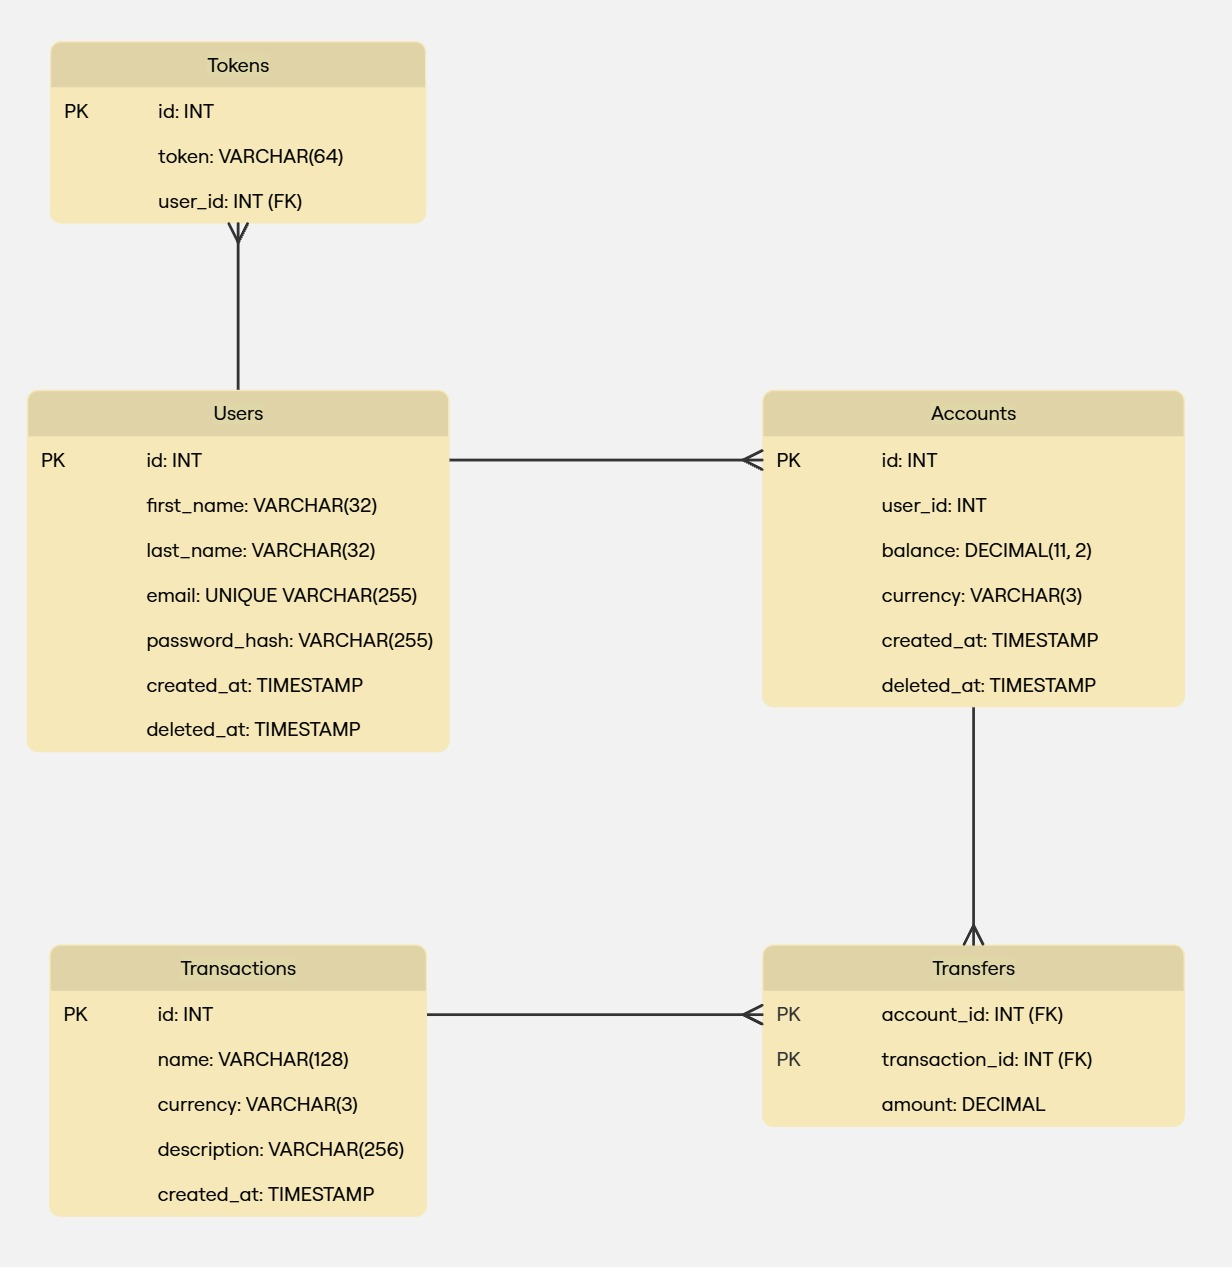
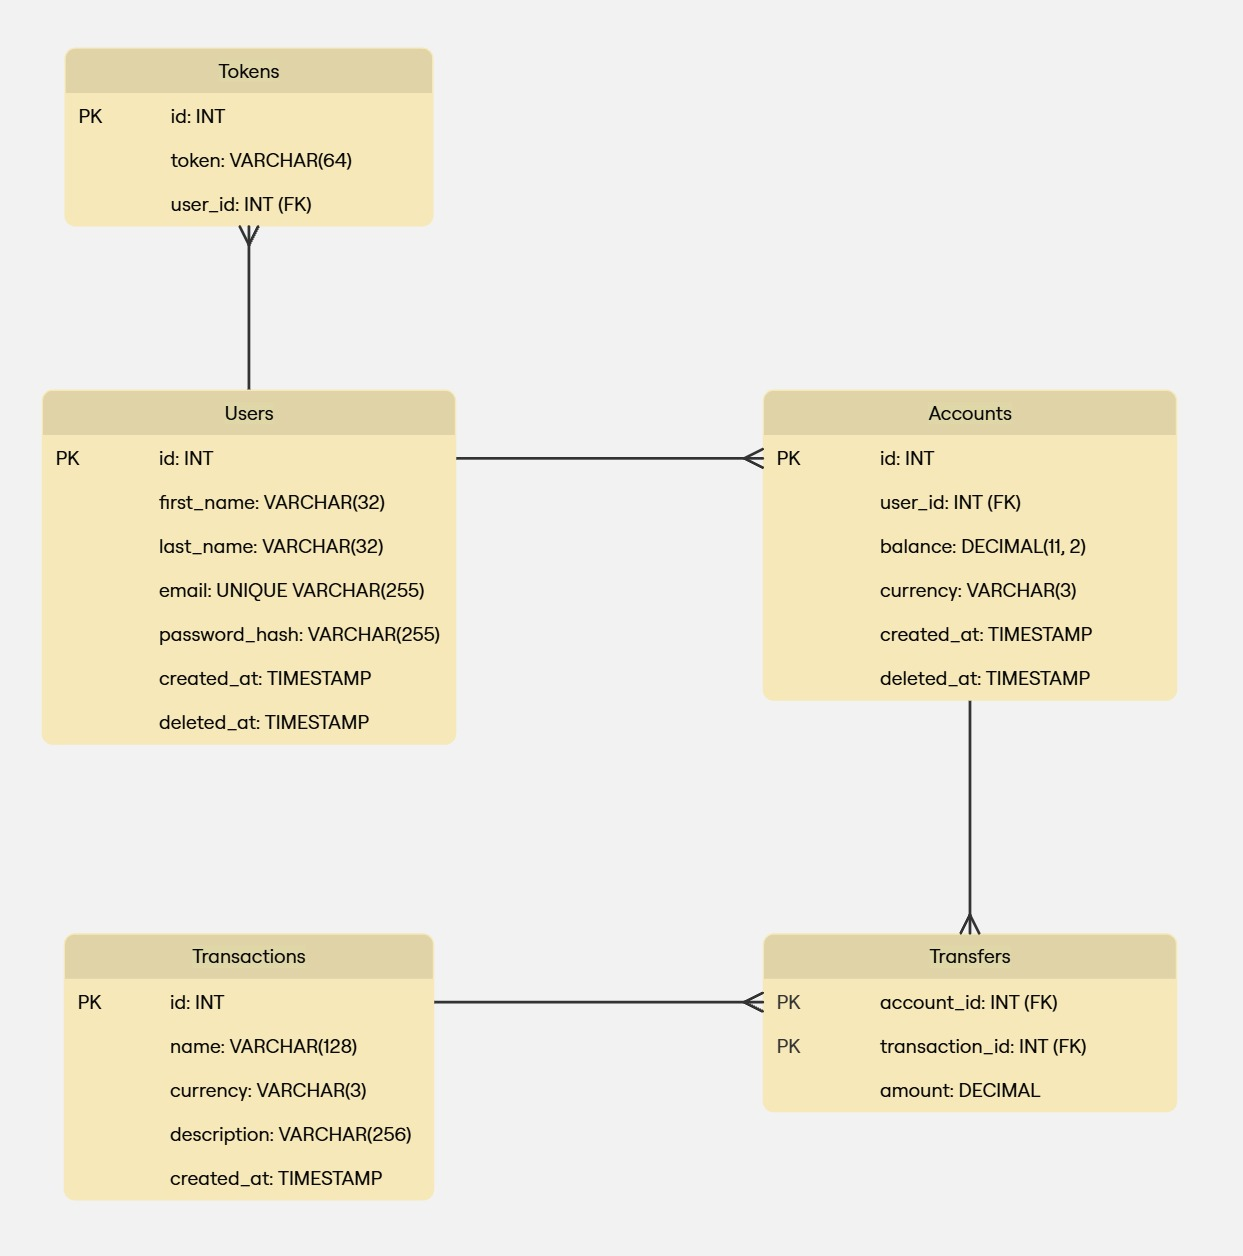
docs: update ER diagram and fix attribute types

diff --git a/docs/schema.md b/docs/schema.md
@@ -5,9 +5,9 @@
 Стовпці:
 | Стовпець | Тип | Обмеження | Опис |
 |----------|-----|-----------|------|
-| id | SERIAL | PRIMARY KEY | Ідентифікатор токена |
-| token | VARCHAR(255) | NOT NULL | Токен авторизації |
-| user_id | FOREIGN KEY | NOT NULL | Ідентифікатор користувача |
+| id | INT | PRIMARY KEY | Ідентифікатор токена |
+| token | VARCHAR(64) | NOT NULL | Токен авторизації |
+| user_id | INT | FOREIGN KEY, NOT NULL | Ідентифікатор користувача |
 
 Індекси:
 - `idx_tokens_token` на `token` (для пошуку токена)
@@ -22,7 +22,7 @@
 Стовпці:
 | Стовпець | Тип | Обмеження | Опис |
 |----------|-----|-----------|------|
-| id | SERIAL | PRIMARY KEY | Ідентифікатор користувача |
+| id | INT | PRIMARY KEY | Ідентифікатор користувача |
 | first_name | VARCHAR(32) | NOT NULL | Ім'я користувача |
 | last_name| VARCHAR(32) | NOT NULL | Прізвище користувача |
 | email | VARCHAR(255) | UNIQUE, NOT NULL | email користувача |
@@ -43,8 +43,8 @@
 Стовпці:
 | Стовпець | Тип | Обмеження | Опис |
 |----------|-----|-----------|------|
-| id | SERIAL | PRIMARY KEY | Ідентифікатор рахунку |
-| user_id | FOREIGN KEY | NOT NULL | Ідентифікатор користувача |
+| id | INT | PRIMARY KEY | Ідентифікатор рахунку |
+| user_id | INT | FOREIGN KEY, NOT NULL | Ідентифікатор користувача |
 | balance | DECIMAL(11, 2) | NOT NULL | Баланс | 
 | currency | VARCHAR(3) | NOT NULL | Код валюти |
 | created_at | TIMESTAMP | DEFAULT NOW() | Час створення рахунку запису |
@@ -63,7 +63,7 @@
 Стовпці:
 | Стовпець | Тип | Обмеження | Опис |
 |----------|-----|-----------|------|
-| id | SERIAL | PRIMARY KEY | Ідентифікатор транзакції |
+| id | INT | PRIMARY KEY | Ідентифікатор транзакції |
 | name | VARCHAR(128) | NOT NULL | Назва транзакції |
 | currency | VARCHAR(3) | NOT NULL | Код валюти |
 | description | VARCHAR(256) | NOT NULL | Опис транзакції |
@@ -79,9 +79,9 @@
 Стовпці:
 | Стовпець | Тип | Обмеження | Опис |
 |----------|-----|-----------|------|
-| account_id | FOREIGN KEY | NOT NULL | Ідентифікатор рахунку |
-| transcation_id | FOREIGN KEY | NOT NULL | Ідентифікатор транзакції |
-| account_id, transcation_id | | PRIMARY KEY | Множинний ідентифікатор трансферу |
+| account_id | INT | NOT NULL | Ідентифікатор рахунку |
+| transaction_id | INT | NOT NULL | Ідентифікатор транзакції |
+| account_id, transaction_id | | PRIMARY KEY, FOREIGN KEY | Множинний ідентифікатор трансферу |
 | amount | DECIMAL | NOT NULL| Кількість переказу | 
 
 Індекси:
